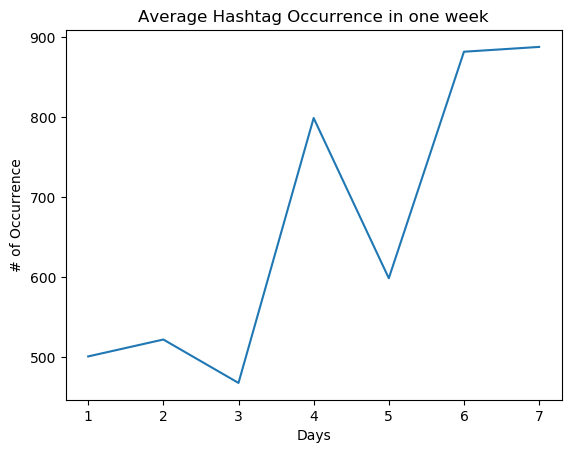
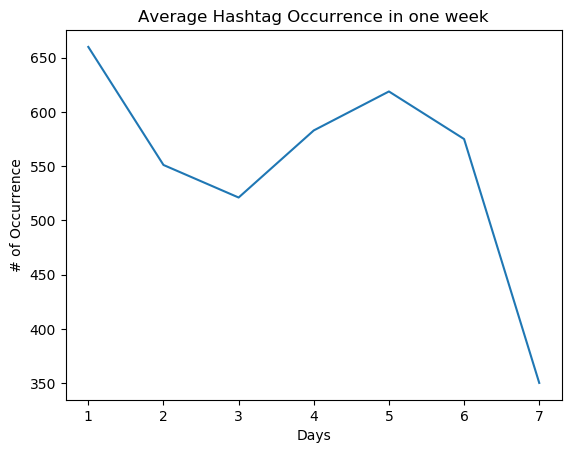
Added code to use all files

diff --git a/Code/charts.py b/Code/charts.py
@@ -2,6 +2,7 @@
 
 ## Setup
 # import libraries
+import glob
 import matplotlib
 # Uncomment this till - > there, if you dont care about seeing asian letters
 #matplotlib.use("pgf")
@@ -28,10 +29,10 @@ import pycountry as pc
 
 # Global variables
 DAYS_PER_HASHTAG = 7
-FILE_NAME = "../Data/Partition0.2-data.json"
+FILE_PATH = "../Data/Partition*.json"
 IMAGE_OUTPUT = "../Data/Images/"
 ITERATION_LIMIT= 50
-DEBUG = True
+DEBUG = False
 
 ## Helper Functions
 def language_data(data):
@@ -90,13 +91,16 @@ def best_worst(data, hashtag):
 
 def avg_occurances_based_on_followers(data):
 	total = sum(data['followers_count'])
-	if data['occurrences'] > 5000:
+	if data['occurrences'] > 15000:
+		bar_data[4]['total'] += total
+		bar_data[4]['count'] += 1
+	elif data['occurrences'] > 5000:
 		bar_data[3]['total'] += total
 		bar_data[3]['count'] += 1
 	elif data['occurrences'] > 1000:
 		bar_data[2]['total'] += total
 		bar_data[2]['count'] += 1
-	elif data['occurrences'] > 100:
+	elif data['occurrences'] > 250:
 		bar_data[1]['total'] += total
 		bar_data[1]['count'] += 1
 	else:
@@ -136,11 +140,19 @@ def cleanup():
 	bar[1] = bar_data[1]['total'] / bar_data[1]['count']
 	bar[2] = bar_data[2]['total'] / bar_data[2]['count']
 	bar[3] = bar_data[3]['total'] / bar_data[3]['count']
+	bar[4] = bar_data[4]['total'] / bar_data[4]['count']
 
 # Read JSON file
-with open(FILE_NAME) as f: # Replace this will a list of all files, then append them
-	raw = js.load(f)
-	f.close()
+raw = None
+for path in glob.glob(FILE_PATH):
+	print("Adding Path: " + path)
+	with open(path, encoding='utf8') as f: # Replace this will a list of all files, then append them
+		if raw == None:
+			raw = js.load(f)
+		else:
+			temp = js.load(f)
+			raw = {**raw, **temp}
+		f.close()
 
 ## Calculate Data
 pie_lang = {"en": 0}
@@ -159,8 +171,8 @@ worst_hashtag = {}
 worst_occurance = []
 popular = ""
 unpopular = ""
-bar_data = [{'count': 0, 'total': 0}, {'count': 0, 'total': 0}, {'count': 0, 'total': 0}, {'count': 0, 'total': 0}]
-bar = [0,0,0,0]
+bar_data = [{'count': 0, 'total': 0}, {'count': 0, 'total': 0}, {'count': 0, 'total': 0}, {'count': 0, 'total': 0}, {'count': 0, 'total': 0}]
+bar = [0,0,0,0,0]
 
 
 for hashtag in raw:
@@ -172,7 +184,7 @@ for hashtag in raw:
 
 	for day in range(DAYS_PER_HASHTAG):
 		# break counter
-		if break_counter > ITERATION_LIMIT:
+		if DEBUG and break_counter > ITERATION_LIMIT:
 			break
 		else:
 			break_counter +=1
@@ -256,14 +268,35 @@ plt.legend([popular, unpopular])
 plt.savefig(IMAGE_OUTPUT + 'best_worst_occurence.png', bbox_inches='tight')
 
 # Plot histogram of followers based on histogram
-ind = np.arange(4)
+ind = np.arange(5)
 plt.figure()
 plt.title("Avg Followers based on # of occurrences")
 plt.bar(ind, bar)
 plt.ylabel('Followers')
 plt.title('Avg Followers based on hashtag occurrences')
-plt.xticks(ind, ('0-99', '100-999', '1000-4,999', '5,000 >'))
+plt.xticks(ind, ('0-250', '250-1000', '1000-5,000', '5,000-15,000', '15,000 >'))
 plt.savefig(IMAGE_OUTPUT + 'avg_followers_based_on_occurance.png', bbox_inches='tight')
+
+# Print out Avg occurrence
+temp = sum(line_avg_data.values()) / len(line_avg_data.values())
+print("Avg Occurrence: " + str(temp))
+
+# Print out avg followers
+temp = sum(line_follow_data.values()) / len(line_follow_data.values())
+print("Avg Followers: " + str(temp))
+
+# print out avg retweets
+temp = sum(line_retweet_data.values()) / len(line_retweet_data.values())
+print("Avg retweets: " + str(temp))
+
+# print out avg favorite
+temp = sum(line_fav_data.values()) / len(line_fav_data.values())
+print("Avg Favorites: " + str(temp))
+
+# Most popular day for occurrences
+max_val = max(line_avg_data.values())
+day = list(line_avg_data.values()).index(max_val)
+print("Most popular day is " + str(1 + day) + " being " + str(max_val))
 
 if DEBUG:
 	print("Popular: " + popular)
